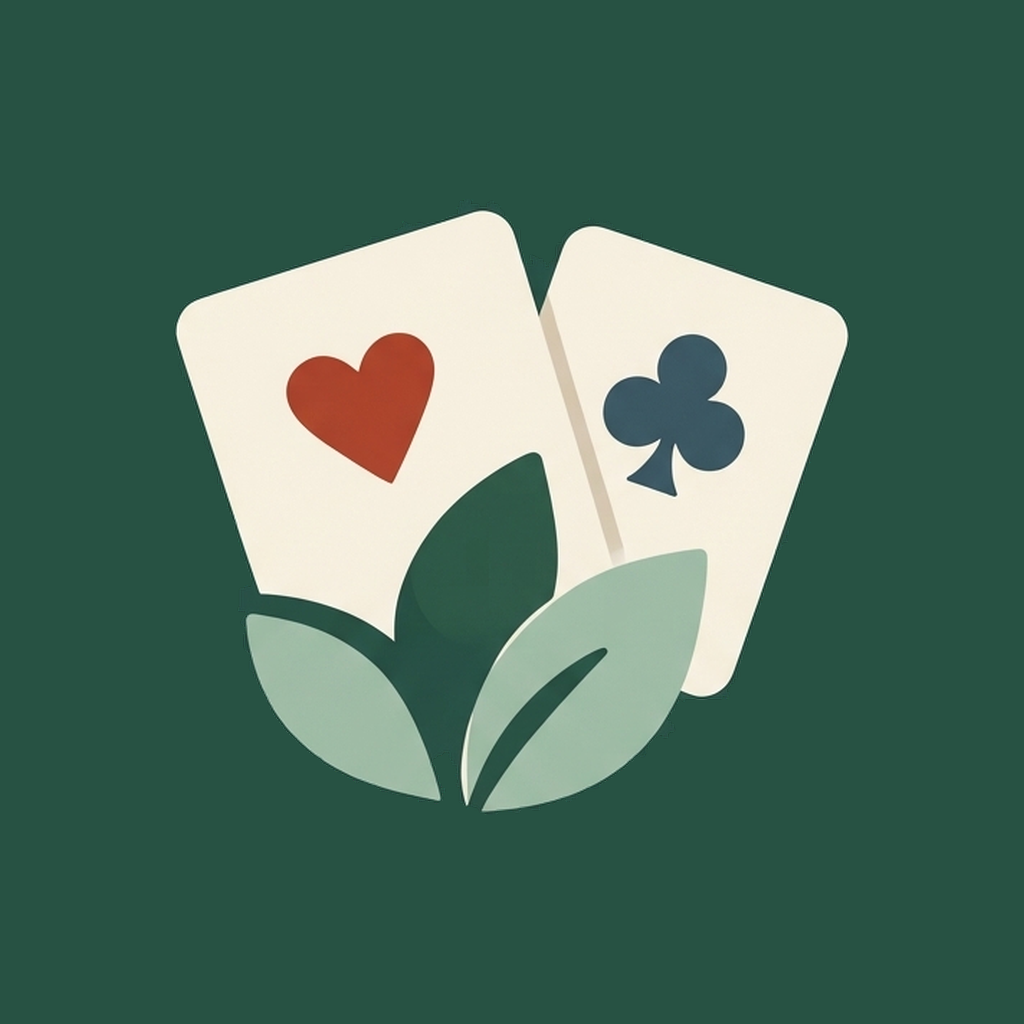
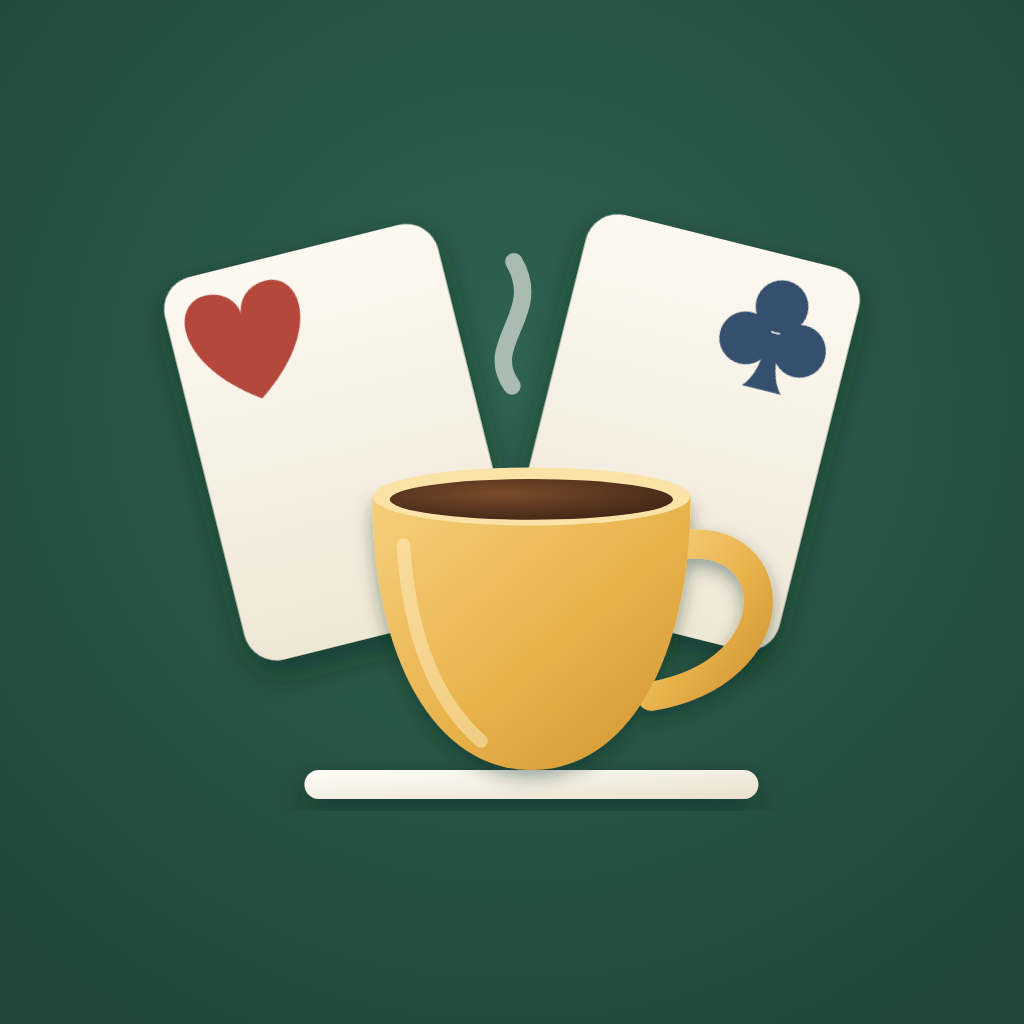
Updates

Changed region(s): [[0.1562, 0.1875, 0.8438, 0.8125]]

diff --git a/mobile/CHANGELOG.md b/mobile/CHANGELOG.md
@@ -2,6 +2,7 @@
 
 ## 16.11.2026
 
+- **New app icon.** Two cards, a heart and a club, fanned behind a cafezinho on the felt green. It replaces the cards-and-leaves icon everywhere: the home screen icon, the Android adaptive and themed icons, the splash logo, the notification icon, the favicon and the Play Store listing. The master artwork is `docs/store/icon-master.svg`.
 - **"Baixar jogo" button.** When the cards you selected make a valid new meld on your turn, a gold **Baixar jogo** button appears under the piles, next to the notice line. A full meld area no longer leaves you hunting for an empty spot to tap. It replaces the old "Pode baixar: toque na sua área" hint. Tapping your area still works, and tapping one of your melds still adds the selection to it.
 - **Support nudge.** Every 10 finished games, the game-over screen gets a calm sheet: "Você já jogou 10 partidas!", the servers line, **Apoiar o app** (opens the Support screen) and **Agora não**. Never within 3 days of the last one, and not for 180 days after a contribution. The count lives on the device; a finished table opened again doesn't count twice. Nothing is shown when the store has no products. `EXPO_PUBLIC_SUPPORT_NUDGE_EVERY=1` makes it come up after every game for testing (`features/support/nudge.ts`).
 - **"Acabou o monte!" only when it did.** After every round the stamp said the stock had run out, and the points screen said so too. The app read who went out from a round the server had already put away. It now reads `round_endings`. The stock running out still swaps in a morto when one is left. Only when none is left does the round end with "Acabou o monte!".
